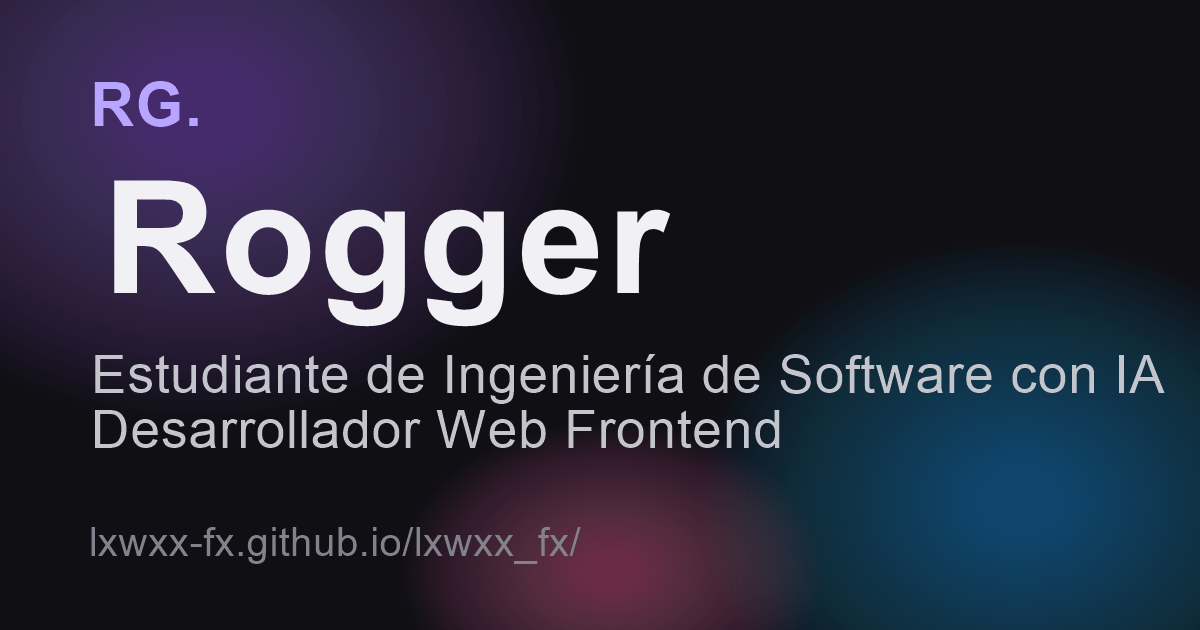
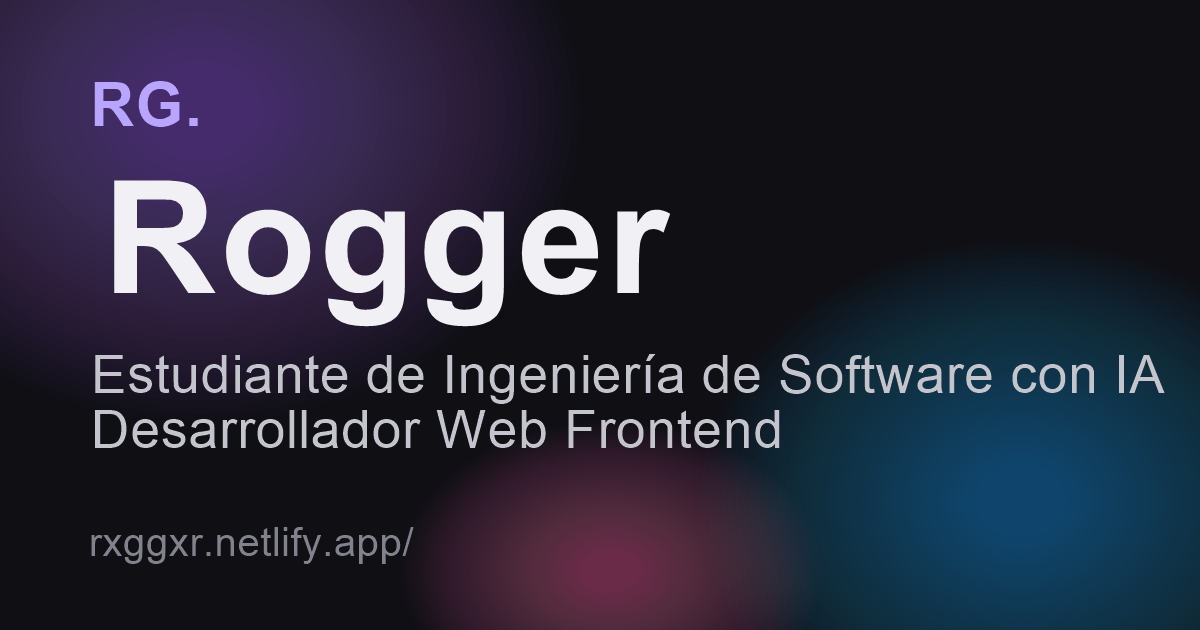
Actualiza URLs

Changed region(s): [[0.0617, 0.8444, 0.4933, 0.9048]]

diff --git a/index.html b/index.html
@@ -9,7 +9,7 @@
   <meta name="description" content="Portafolio de Rogger, estudiante de Ingeniería de Software con IA y desarrollador web frontend: proyectos con HTML, CSS y JavaScript, habilidades y contacto." />
   <meta name="author" content="Rogger" />
   <meta name="robots" content="index, follow" />
-  <link rel="canonical" href="https://lxwxx-fx.github.io/lxwxx_fx/" />
+  <link rel="canonical" href="https://rxggxr.netlify.app/" />
   <meta name="color-scheme" content="dark light" />
   <meta name="theme-color" media="(prefers-color-scheme: dark)" content="#0b0b12" />
   <meta name="theme-color" media="(prefers-color-scheme: light)" content="#ffffff" />
@@ -20,8 +20,8 @@
   <meta property="og:site_name" content="Portafolio de Rogger" />
   <meta property="og:title" content="Rogger | Estudiante de Ingeniería de Software con IA · Desarrollador Web Frontend" />
   <meta property="og:description" content="Proyectos, habilidades y contacto de Rogger, estudiante de Ingeniería de Software con IA. HTML, CSS y JavaScript: sitios rápidos, responsive y accesibles." />
-  <meta property="og:url" content="https://lxwxx-fx.github.io/lxwxx_fx/" />
-  <meta property="og:image" content="https://lxwxx-fx.github.io/lxwxx_fx/og-image.png" />
+  <meta property="og:url" content="https://rxggxr.netlify.app/" />
+  <meta property="og:image" content="https://rxggxr.netlify.app/og-image.png" />
   <meta property="og:image:width" content="1200" />
   <meta property="og:image:height" content="630" />
   <meta property="og:image:alt" content="Portada del portafolio de Rogger con su nombre y rol" />
@@ -30,7 +30,7 @@
   <meta name="twitter:card" content="summary_large_image" />
   <meta name="twitter:title" content="Rogger | Estudiante de Ingeniería de Software con IA · Desarrollador Web Frontend" />
   <meta name="twitter:description" content="Proyectos con HTML, CSS y JS puro. Rápidos, responsive y accesibles." />
-  <meta name="twitter:image" content="https://lxwxx-fx.github.io/lxwxx_fx/og-image.png" />
+  <meta name="twitter:image" content="https://rxggxr.netlify.app/og-image.png" />
   <meta name="twitter:image:alt" content="Portada del portafolio de Rogger con su nombre y rol" />
 
   <!-- Favicon -->
@@ -114,7 +114,7 @@
           <svg class="icon-sun" width="20" height="20" viewBox="0 0 24 24" fill="none" stroke="currentColor" stroke-width="2" stroke-linecap="round" aria-hidden="true"><circle cx="12" cy="12" r="4"/><path d="M12 2v2m0 16v2M4.9 4.9l1.4 1.4m11.4 11.4 1.4 1.4M2 12h2m16 0h2M4.9 19.1l1.4-1.4M17.7 6.3l1.4-1.4"/></svg>
           <svg class="icon-moon" width="20" height="20" viewBox="0 0 24 24" fill="none" stroke="currentColor" stroke-width="2" stroke-linecap="round" stroke-linejoin="round" aria-hidden="true"><path d="M21 12.8A9 9 0 1 1 11.2 3a7 7 0 0 0 9.8 9.8z"/></svg>
         </button>
-        <a href="#contacto" class="contact-cta magnetic">Contacto <span class="cta-arrow" aria-hidden="true">↗</span></a>
+        <a href="#contacto" class="contact-cta magnetic" data-section="contacto">Contacto <span class="cta-arrow" aria-hidden="true">↗</span></a>
         <button
           class="nav-toggle"
           aria-expanded="false"
@@ -161,7 +161,7 @@
               <span class="code-filename">perfil.js</span>
             </div>
             <pre class="code-body" aria-hidden="true"><code id="typed-code"></code><span class="caret" aria-hidden="true"></span></pre>
-            <p class="sr-only">Perfil de Rogger: desarrollador frontend, stack HTML, CSS, JavaScript, Python y Kotlin, disponible para prácticas.</p>
+            <p class="sr-only">Perfil de Rogger: ingeniero de software con IA, stack HTML, CSS, JavaScript, Python y Kotlin, enfoque en web, apps e IA, disponible para prácticas.</p>
           </div>
           <span class="chip chip-1" aria-hidden="true">HTML5</span>
           <span class="chip chip-2" aria-hidden="true">CSS3</span>

diff --git a/script.js b/script.js
@@ -175,8 +175,9 @@ function initHeroReveal() {
 const PROFILE_CODE = [
   "const perfil = {",
   '  nombre: "Rogger",',
-  '  rol: "Frontend",',
+  '  rol: "Ing. de Software con IA",',
   '  stack: ["HTML", "CSS", "JS", "Python", "Kotlin"],',
+  '  enfoque: ["Web", "Apps", "IA"],',
   "  disponible: true,",
   "};"
 ].join("\n");
@@ -341,14 +342,16 @@ function initNavbar() {
   const menu = document.getElementById("nav-menu");
   const pill = menu ? menu.querySelector(".nav-pill") : null;
   const links = document.querySelectorAll(".nav-link[data-section]");
+  const sectionLinks = document.querySelectorAll("[data-section]");
   const desktopMQ = window.matchMedia("(min-width: 768px)");
   let ticking = false;
   let lastY = window.scrollY;
   let activeLink = null;
 
   // Píldora deslizante: solo transform + width, sin recalcular layout al animar
+  // (solo para enlaces del menú; el botón Contacto tiene su propio resaltado)
   function movePill(link) {
-    if (!pill || !desktopMQ.matches || !link) {
+    if (!pill || !desktopMQ.matches || !link || !link.closest(".menu-links")) {
       if (pill) pill.style.opacity = "0";
       return;
     }
@@ -361,7 +364,7 @@ function initNavbar() {
 
   function setActive(link) {
     activeLink = link;
-    links.forEach((l) => {
+    sectionLinks.forEach((l) => {
       const on = l === link;
       l.classList.toggle("active", on);
       if (on) l.setAttribute("aria-current", "true");
@@ -402,6 +405,10 @@ function initNavbar() {
     links.forEach((link) => {
       link.addEventListener("mouseenter", () => movePill(link));
     });
+    // Sobre Contacto la píldora se oculta (tiene su propio resaltado)
+    document.querySelectorAll(".contact-cta, .contact-link").forEach((cta) => {
+      cta.addEventListener("mouseenter", () => movePill(null));
+    });
     if (menu) menu.addEventListener("mouseleave", () => movePill(activeLink));
   }
   window.addEventListener("resize", () => movePill(activeLink));
@@ -417,12 +424,13 @@ function initNavbar() {
   const activeIO = new IntersectionObserver((entries) => {
     entries.forEach((entry) => {
       if (!entry.isIntersecting) return;
-      const match = Array.prototype.find.call(
-        links,
+      // Resalta el enlace visible para la sección (isla en escritorio, panel en móvil)
+      const candidates = Array.prototype.filter.call(
+        sectionLinks,
         (l) => l.dataset.section === entry.target.id
       );
-      // Sin enlace para la sección (ej. contacto): se limpia el resaltado
-      setActive(match || null);
+      const visible = candidates.find((l) => l.offsetParent !== null);
+      setActive(visible || null);
     });
   }, { rootMargin: "-40% 0px -55% 0px", threshold: 0 });
 

diff --git a/styles.css b/styles.css
@@ -181,7 +181,6 @@ h1, h2, h3 {
   }
 }
 
-/* ============ HEADER / NAV (vidrio) ============ */
 /* ============ HEADER: isla flotante ============ */
 .site-header {
   position: sticky;
@@ -705,7 +704,8 @@ body.loaded .reveal-hero {
 
 /* Palabras rotativas del subtítulo: solo opacity + transform */
 .hero-subtitle {
-  min-height: 2lh;
+  min-height: 1lh;
+  line-height: 1.35;
 }
 
 .rotator {
@@ -1372,6 +1372,7 @@ body.loaded .reveal-hero {
     align-items: center;
     gap: 0.25rem;
     margin-inline: auto;
+    min-width: 0;
     opacity: 1;
     visibility: visible;
   }
@@ -1387,6 +1388,7 @@ body.loaded .reveal-hero {
     font-size: 0.98rem;
     font-weight: 500;
     padding: 0.7rem 1rem;
+    white-space: nowrap;
   }
 
   .menu-foot {
@@ -1402,7 +1404,7 @@ body.loaded .reveal-hero {
   }
 
   /* Contacto: botón pequeño con borde de gradiente */
-  .contact-cta {
+  .island-actions .contact-cta {
     display: inline-flex;
     align-items: center;
     gap: 0.35rem;
@@ -1410,6 +1412,8 @@ body.loaded .reveal-hero {
     border-radius: 999px;
     font-weight: 600;
     font-size: 0.9rem;
+    white-space: nowrap;
+    flex-shrink: 0;
     color: var(--text);
     border: 1px solid transparent;
     background:
@@ -1423,6 +1427,16 @@ body.loaded .reveal-hero {
     box-shadow: 0 6px 20px rgba(139, 92, 246, 0.35);
   }
 
+  /* Resaltado cuando la sección contacto está activa */
+  .island-actions .contact-cta.active {
+    color: var(--accent-text);
+    box-shadow: 0 0 0 1px var(--accent), 0 6px 20px rgba(139, 92, 246, 0.45);
+  }
+
+  .contact-link.active {
+    box-shadow: 0 0 0 2px var(--accent-2);
+  }
+
   .contact-cta .cta-arrow {
     display: inline-block;
     transition: transform 0.3s var(--ease-out);
@@ -1430,6 +1444,32 @@ body.loaded .reveal-hero {
 
   .contact-cta:hover .cta-arrow {
     transform: translate(2px, -2px);
+  }
+
+  /* Tablet estrecha (768-940px): compacta la isla para que quepa todo */
+  @media (min-width: 768px) and (max-width: 940px) {
+    .island {
+      gap: 0.5rem;
+      padding: 0.45rem 0.5rem;
+    }
+
+    .menu-links {
+      gap: 0;
+    }
+
+    .menu-links a {
+      font-size: 0.88rem;
+      padding: 0.65rem 0.7rem;
+    }
+
+    .island-actions {
+      gap: 0.4rem;
+    }
+
+    .island-actions .contact-cta {
+      font-size: 0.85rem;
+      padding: 0.5rem 0.9rem;
+    }
   }
 
   .hero {

diff --git a/README.md b/README.md
@@ -14,12 +14,11 @@ Portafolio responsive en **HTML, CSS y JavaScript puro** (sin frameworks ni comp
 
 Abre `index.html` en el navegador. Sin servidor ni instalación.
 
-## Publicar en GitHub Pages
+## Publicar en Netlify
 
-1. Crea un repositorio y sube estos archivos a la rama `main`.
-2. En el repo: **Settings → Pages → Deploy from a branch → `main` / `/ (root)`**.
-3. Tu sitio quedará en `https://TU-USUARIO.github.io/NOMBRE-REPO/`.
-4. (Opcional) Para previsualizaciones ricas en redes, pon la URL absoluta final en `og:url`, `og:image` y `twitter:image` de `index.html`.
+1. Sube estos archivos al repositorio (o arrastra la carpeta a https://app.netlify.com/drop).
+2. El sitio queda en `https://rxggxr.netlify.app/` (las rutas son relativas, funcionan desde la raíz).
+3. Tras publicar, verifica `https://rxggxr.netlify.app/sitemap.xml` y `https://rxggxr.netlify.app/robots.txt`.
 
 ## Personalizar
 
